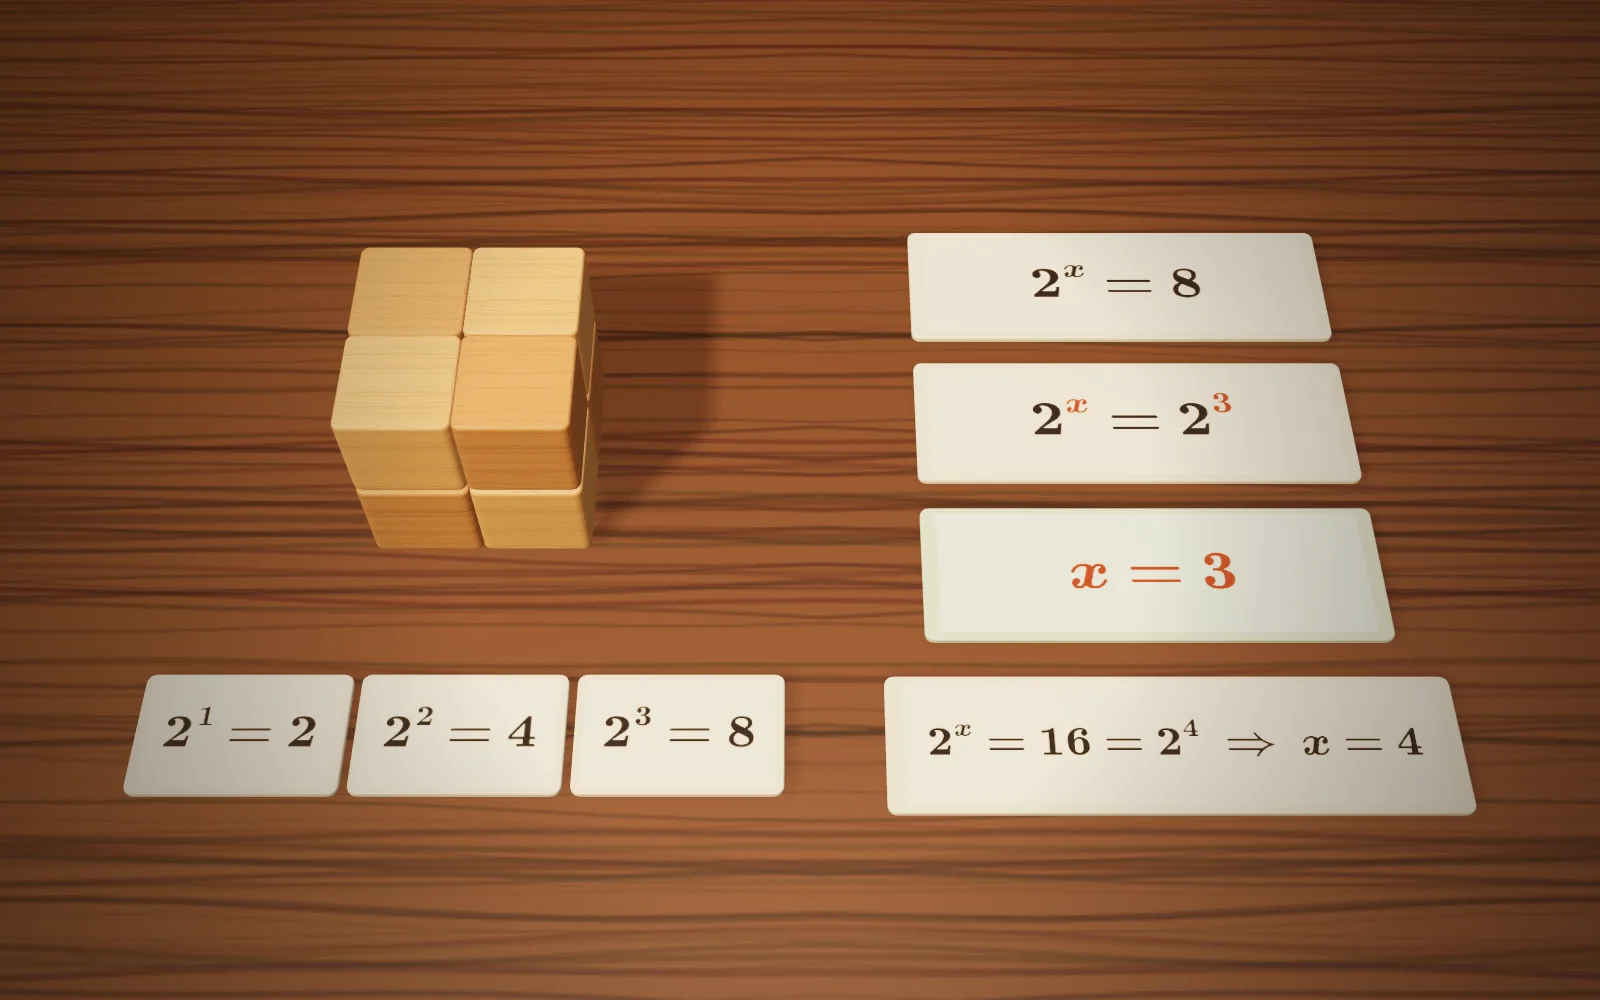
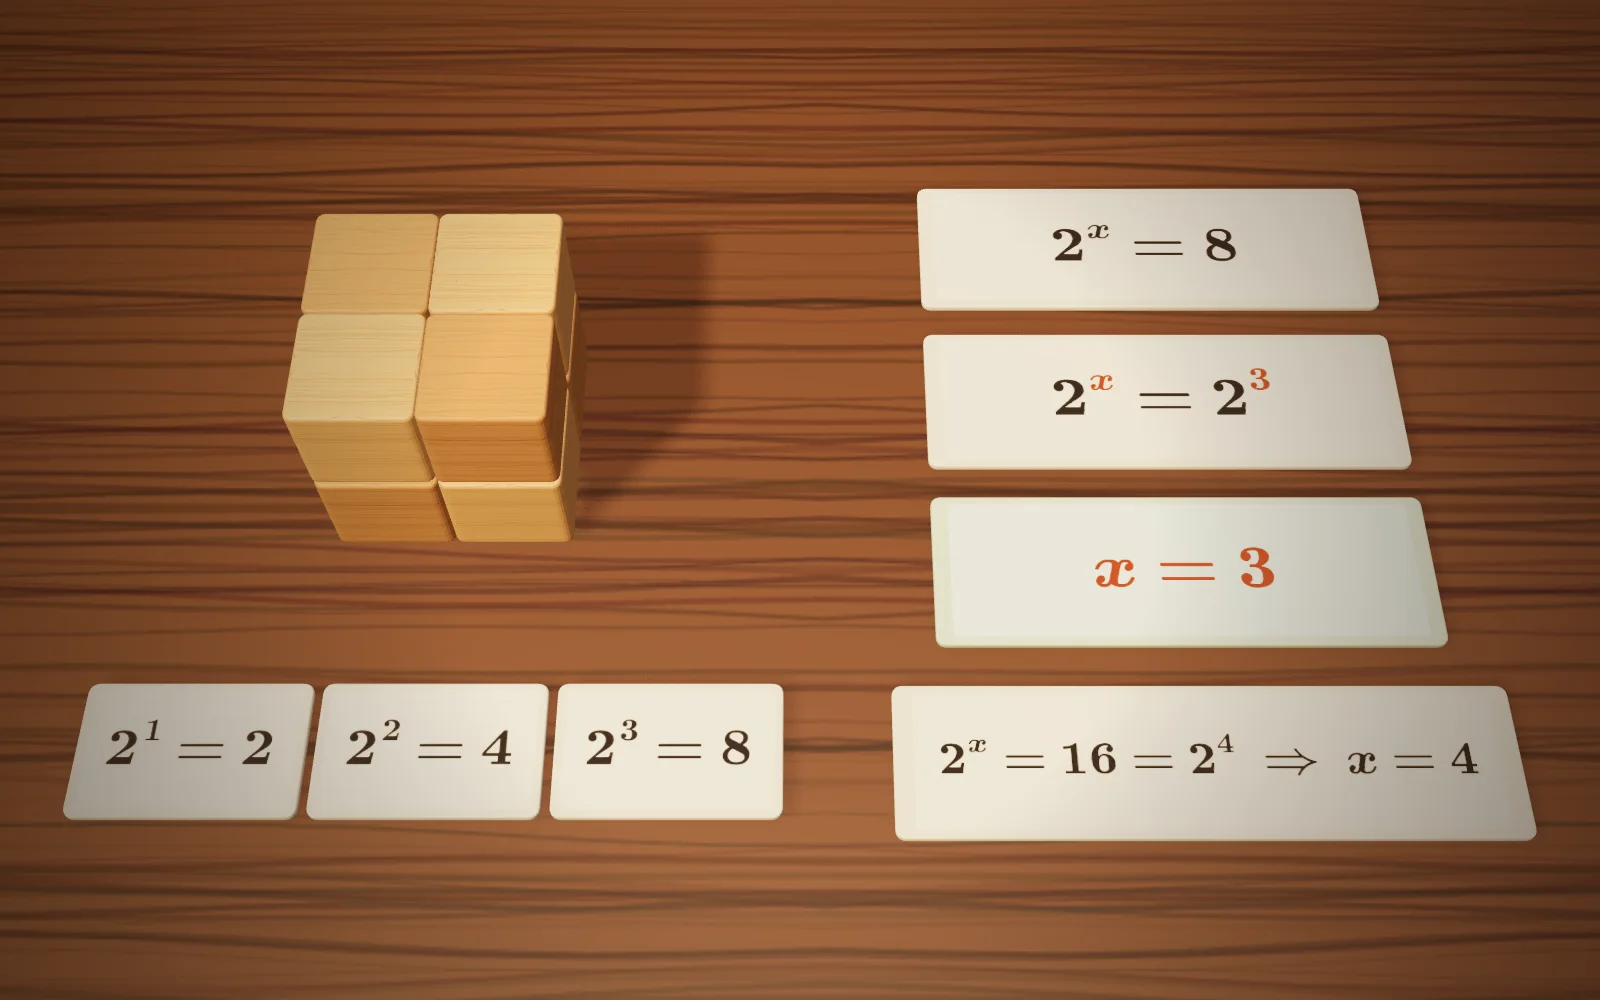
수의 마법 — 작업 중간 저장
Claude-Session: https://claude.ai/code/session_01T6HCktzZTCy63PeQAnPr61

diff --git a/number_magic/app/hero3d/scenes-c47.js b/number_magic/app/hero3d/scenes-c47.js
@@ -17,7 +17,11 @@ function mdraw(k, g, parts, x, cy, fs, draw){
   if(typeof parts === 'string') parts = [parts];
   let cx = x;
   parts.forEach(p => {
-    if(typeof p === 'string'){ cx += gtext(k, g, p, cx, cy, fs, draw); return; }
+    if(typeof p === 'string'){
+      /* 도(°) — 글꼴의 ° 는 자리가 어긋나서 작은 원으로 그린다 */
+      p.split(/(°)/).filter(r => r !== '').forEach(r => { if(r === '°'){ if(draw !== false){ g.save(); g.lineWidth = fs * 0.055; g.beginPath(); g.arc(cx + fs * 0.13, cy - fs * 0.3, fs * 0.08, 0, Math.PI * 2); g.stroke(); g.restore(); } cx += fs * 0.26; }
+        else cx += gtext(k, g, r, cx, cy, fs, draw); });
+      return; }
     if(p.c){ const old = g.fillStyle, olds = g.strokeStyle; if(draw !== false){ g.fillStyle = g.strokeStyle = p.c; }
       cx += mdraw(k, g, p.t, cx, cy, fs, draw); if(draw !== false){ g.fillStyle = old; g.strokeStyle = olds; } return; }
     if(p.sup != null){ const sp = typeof p.sup === 'string' ? [p.sup] : p.sup, fr = sp.some(q => q && q.n);
@@ -160,7 +164,7 @@ export const SCENES_C47 = {
 
   /* 연속조건 상수 결정 — hook: 연필을 떼지 않고 그리는 그래프, x=3 에서만 값이 k 인 이상한 점.
      stage ①: (x²−9)/(x−3) = x+3 → 극한값 6 → k=6. stage ②: x+b 와 3x−1 이 x=2 에서 만나려면 2+b=5 → b=3.
-     그래프 한지 위에 y=x+3 직선(구멍 (3, 6)) · 구멍을 메우는 구슬 k · 연필, 오른쪽에 식 카드 */
+     그래프 한지 위에 y=x+3 직선(구멍 (3, 6)) · 구멍을 메우는 원판 k · 연필, 오른쪽에 식 카드 */
   'M-59': { seed:459, caps:{ P:10, list:[
     [0.0, "$x=3$에서만 값이 $k$인 점입니다. $k$가 맞지 않으면 그래프가 그 점에서 끊어집니다.", "Only at $x=3$ is the value $k$. If $k$ is wrong, the graph breaks at that point.", "只有在$x=3$处函数值是$k$。$k$不对，图像就在那一点断开。"],
     [0.24, "$x\\ne 3$이면 $\\dfrac{x^2-9}{x-3}=\\dfrac{(x-3)(x+3)}{x-3}=x+3$이므로 극한값은 $3+3=6$입니다.", "For $x\\ne 3$, $\\dfrac{x^2-9}{x-3}=\\dfrac{(x-3)(x+3)}{x-3}=x+3$, so the limit is $3+3=6$.", "当$x\\ne 3$时，$\\dfrac{x^2-9}{x-3}=\\dfrac{(x-3)(x+3)}{x-3}=x+3$，所以极限值是$3+3=6$。"],
@@ -193,7 +197,7 @@ export const SCENES_C47 = {
       g.lineWidth = 8; g.beginPath(); g.arc(gu(3), gv(6), R, 0, Math.PI * 2); g.stroke(); g.restore();
       ink(g, 'y = x + 3', gu(4.1), gv(4.9), 76, { color:'#8e2a12' });
     });
-    /* 구슬 k — 구멍 (3, 6) 에 들어가 있다 */
+    /* 원판 k — 구멍 (3, 6) 에 들어가 있다 */
     const kb = new THREE.Mesh(new THREE.CylinderGeometry(0.1, 0.1, 0.05, 40), new THREE.MeshPhysicalMaterial({ color:'#c8962e', roughness:0.25, metalness:0.6, clearcoat:1 }));
     kb.castShadow = kb.receiveShadow = true; scene.add(kb);
     const HOLE = world(3, 6, 0.05), HIGH = world(3, 7.6, 0.05);
@@ -214,13 +218,13 @@ export const SCENES_C47 = {
     const c2 = mcard(k, [{ lim:'x → 3' }, ' (x + 3) = 3 + 3 = 6'], X, -0.12, { w:2.5, d:0.72, hmax:0.34, dy:-0.06, glow:true });
     const c3 = mcard(k, [{ c:'#8a5a0e', t:'k' }, ' = 6'], X, 0.7, { w:1.3, d:0.66, hmax:0.52, bg:GREEN, edge:GEDGE, glow:true });
     const c4 = mcard(k, '2 + b = 3 × 2 − 1 = 5  ⇒  b = 3', X, 1.5, { w:2.5, d:0.62, hmax:0.4, glow:true });
-    /* 움직임: 구슬 k 가 엉뚱한 높이로 튀어 구멍이 드러났다가(끊김) → 식 카드 → 구슬이 6 자리로 돌아와 메움 → 연필이 끊김 없이 긋고 돌아옴 → b=3 */
+    /* 움직임: 원판 k 가 엉뚱한 높이로 튀어 구멍이 드러났다가(끊김) → 식 카드 → 원판이 6 자리로 돌아와 메움 → 연필이 끊김 없이 긋고 돌아옴 → b=3 */
     k.onFrame(t => { const p = cyc(t, 10);
       const u = seg(p, 0.04, 0.14) * (1 - seg(p, 0.4, 0.5));
       kb.position.lerpVectors(HOLE, HIGH, u); kb.position.y = HOLE.y + 0.25 * Math.sin(Math.PI * u);
       pop(c1, p, 0.22, 0.36); pop(c2, p, 0.3, 0.46); pop(c3, p, 0.46, 0.62);
       const w = seg(p, 0.5, 0.74) * (1 - seg(p, 0.8, 0.96));
-      pen.position.lerpVectors(P0, P1, w); pen.position.y = P0.y + 0.18 * hop(p, 0.8, 0.96) + 0.07 * Math.exp(-Math.pow((w - 0.54) / 0.05, 2)) * (p < 0.8 ? 1 : 0);  /* 메운 구슬 위를 미끄러져 지남 */
+      pen.position.lerpVectors(P0, P1, w); pen.position.y = P0.y + 0.18 * hop(p, 0.8, 0.96) + 0.07 * Math.exp(-Math.pow((w - 0.54) / 0.05, 2)) * (p < 0.8 ? 1 : 0);  /* 메운 자리 위를 미끄러져 지남 */
       pop(c4, p, 0.78, 0.96); });
     k.lights({ key:3.0, keyPos:[-4, 7, 5], spotPos:[-0.5, 7, 2], spotAt:[-0.3, 0, 0.2], envOpts:{ intensity:0.7 } });
   }},
@@ -230,7 +234,7 @@ export const SCENES_C47 = {
      y=x³−3x² 모양의 레일(x −1.1 ~ 3.1) · 수레 · 꼭대기와 골짜기의 수평 막대, 앞에 식 카드 */
   'M-60': { seed:460, caps:{ P:10, list:[
     [0.0, "롤러코스터가 꼭대기에 닿는 순간 잠깐 수평이 됩니다 — 기울기가 $0$입니다.", "At the top, the coaster is level for an instant: the slope is $0$.", "过山车到达顶点的瞬间是水平的——斜率为$0$。"],
-    [0.24, "$f(x)=x^3-3x^2$이면 $f'(x)=3x^2-6x=3x(x-2)$이므로 $f'(x)=0$의 해는 $x=0,\\;2$입니다.", "For $f(x)=x^3-3x^2$, $f'(x)=3x^2-6x=3x(x-2)$, so $f'(x)=0$ at $x=0,\\;2$.", "$f(x)=x^3-3x^2$时，$f'(x)=3x^2-6x=3x(x-2)$，所以$f'(x)=0$的解是$x=0,\\;2$。"],
+    [0.24, "$f(x)=x^3-3x^2$이면 $f'(x)=3x^2-6x=3x(x-2)$이므로 $f'(x)=0$의 해는 $x=0,\;2$입니다.", "For $f(x)=x^3-3x^2$, $f'(x)=3x^2-6x=3x(x-2)$, so $f'(x)=0$ at $x=0,\;2$.", "$f(x)=x^3-3x^2$时，$f'(x)=3x^2-6x=3x(x-2)$，所以$f'(x)=0$的解是$x=0,\;2$。"],
     [0.42, "골짜기도 기울기가 $0$입니다. 높이는 $f(2)=8-12=-4$ — 극솟값 $-4$입니다.", "The valley is level too. Its height is $f(2)=8-12=-4$: the local minimum $-4$.", "谷底的斜率也是$0$。高度是$f(2)=8-12=-4$——极小值$-4$。"],
     [0.72, "꼭대기 높이는 $f(0)=0$ — 극댓값 $0$입니다.", "The top's height is $f(0)=0$: the local maximum $0$.", "顶点的高度是$f(0)=0$——极大值$0$。"]
   ]},
@@ -397,10 +401,10 @@ export const SCENES_C47 = {
     const hub = new THREE.Mesh(new THREE.CylinderGeometry(0.05, 0.05, 0.05, 24), k.metal('#b8914a', 0.3)); hub.rotation.x = Math.PI / 2; hub.position.z = 0.08; dial.add(hub);
     const post = new THREE.Mesh(new THREE.CylinderGeometry(0.035, 0.05, 0.5, 16), k.metal('#3b3024', 0.4)); post.position.set(0, -0.66, -0.05); dial.add(post);
     dial.traverse(m => { if(m.isMesh) m.castShadow = true; });
-    dial.position.set(2.3, 0.9, -1.62); dial.rotation.set(-0.35, -0.22, 0); scene.add(dial);
+    dial.position.set(2.3, 0.84, -1.5); dial.rotation.set(-0.35, -0.22, 0); scene.add(dial);
     const setV = v => { needle.rotation.z = (210 - v * 24) * Math.PI / 180; };
     setV(7);
-    const base = new THREE.Mesh(new THREE.CylinderGeometry(0.28, 0.32, 0.06, 32), k.woodMat('#5b3a20', [40, 20, 8])); base.position.set(2.3 + 0.0, 0.03, -1.62 + 0.0); base.castShadow = base.receiveShadow = true; scene.add(base);
+    const base = new THREE.Mesh(new THREE.CylinderGeometry(0.28, 0.32, 0.06, 32), k.woodMat('#5b3a20', [40, 20, 8])); base.position.set(2.3, 0.03, -1.5); base.castShadow = base.receiveShadow = true; scene.add(base);
     /* 식 카드 */
     const c0 = mcard(k, ['s(t) = t', { sup:'2' }, ' + 3t'], -2.0, 0.72, { w:1.9, d:0.62, hmax:0.46, glow:true });
     const c1 = mcard(k, ['s', { sup:'′' }, '(t) = 2t + 3'], 0.0, 0.72, { w:1.9, d:0.62, hmax:0.46, glow:true });

diff --git a/number_magic/app/hero3d/scenes-c46.js b/number_magic/app/hero3d/scenes-c46.js
@@ -193,7 +193,7 @@ export const SCENES_C46 = {
   ]},
     build(k){
     const { THREE, scene } = k;
-    k.frame([-0.1, 0.25, 0.05], 6.9, 57);
+    k.frame([-0.1, 0.25, 0.1], 6.3, 60);
     k.table();
     /* 정육면체 8 개 — 2 × 2 × 2 */
     const S = 0.5, G = 0.03, CX = -1.65, CZ = -0.35, mats = [k.woodMat('#d9a466', [120, 80, 40]), k.woodMat('#c48a52', [110, 70, 35])];
@@ -270,7 +270,7 @@ export const SCENES_C46 = {
   ]},
     build(k){
     const { THREE, scene } = k;
-    k.frame([0.3, 0.55, 0.25], 7.0, 38);
+    k.frame([0.3, 0.5, -0.1], 6.8, 38);
     k.table();
     /* 기둥 — 블록 하나 높이 H, x = 1~4 에 2ˣ 개 */
     const H = 0.14, S = 0.46, X0 = -2.6, DX = 1.0, Z0 = -0.2;
@@ -415,7 +415,7 @@ export const SCENES_C46 = {
   ]},
     build(k){
     const { THREE, scene } = k;
-    k.frame([0.1, 0.3, 0.45], 8.6, 54);
+    k.frame([0.2, 0.3, 0.55], 8.1, 58);
     k.table();
     const PI = Math.PI, f = x => 3 * Math.sin(2 * x) + 1;
     const B = board(k, { x0:-0.35, x1:2 * PI + 0.35, y0:-3.4, y1:5.4, ux:0.72, uy:0.4, gx:PI / 4, gy:1, cx:0.95, cz:-0.2, fs:0.2, xlo:1.05,
